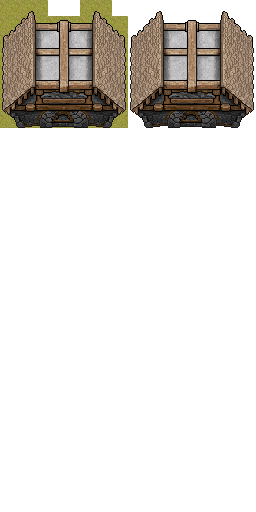
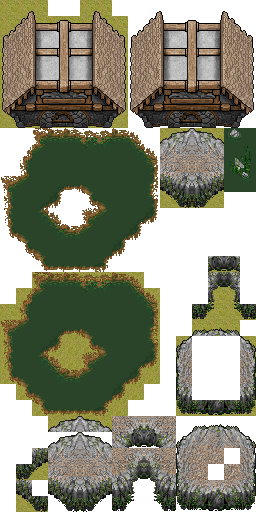
Add world sprites / map

diff --git a/public/assets/world/world-tileset.tsx b/public/assets/world/world-tileset.tsx
@@ -1,0 +1,4 @@
+<?xml version="1.0" encoding="UTF-8"?>
+<tileset name="Map" tilewidth="16" tileheight="16" tilecount="512" columns="16">
+ <image source="../world.png" width="256" height="512"/>
+</tileset>
